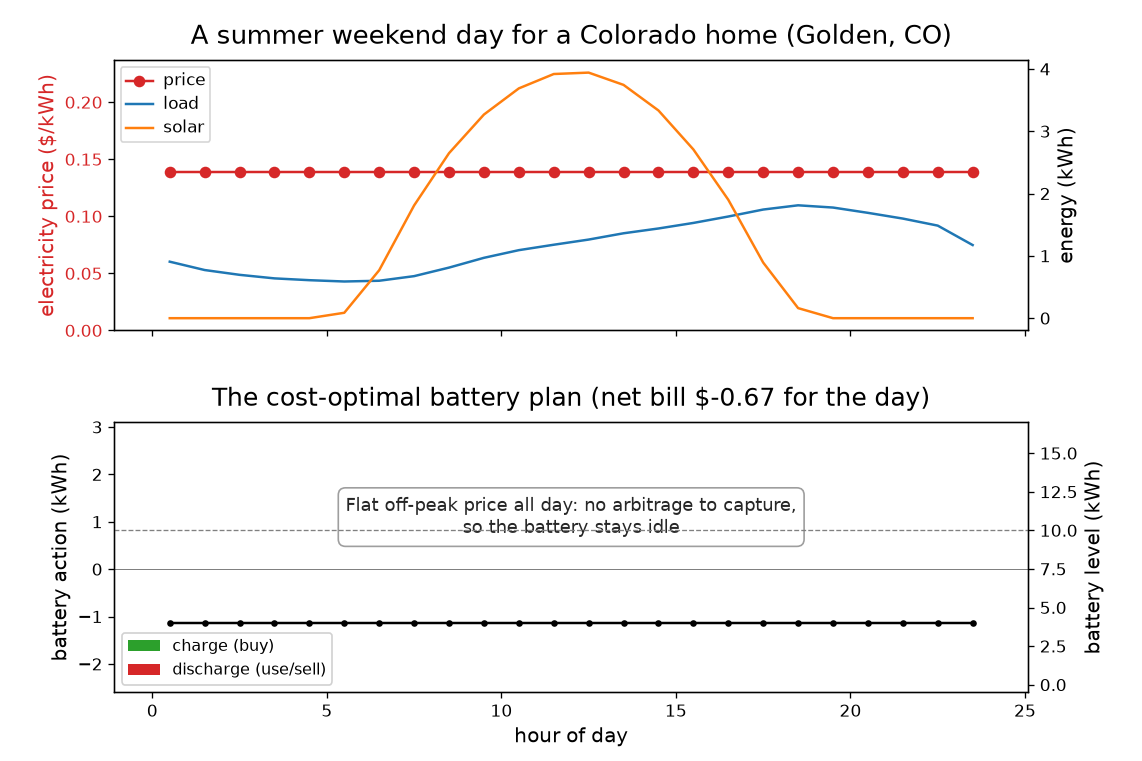
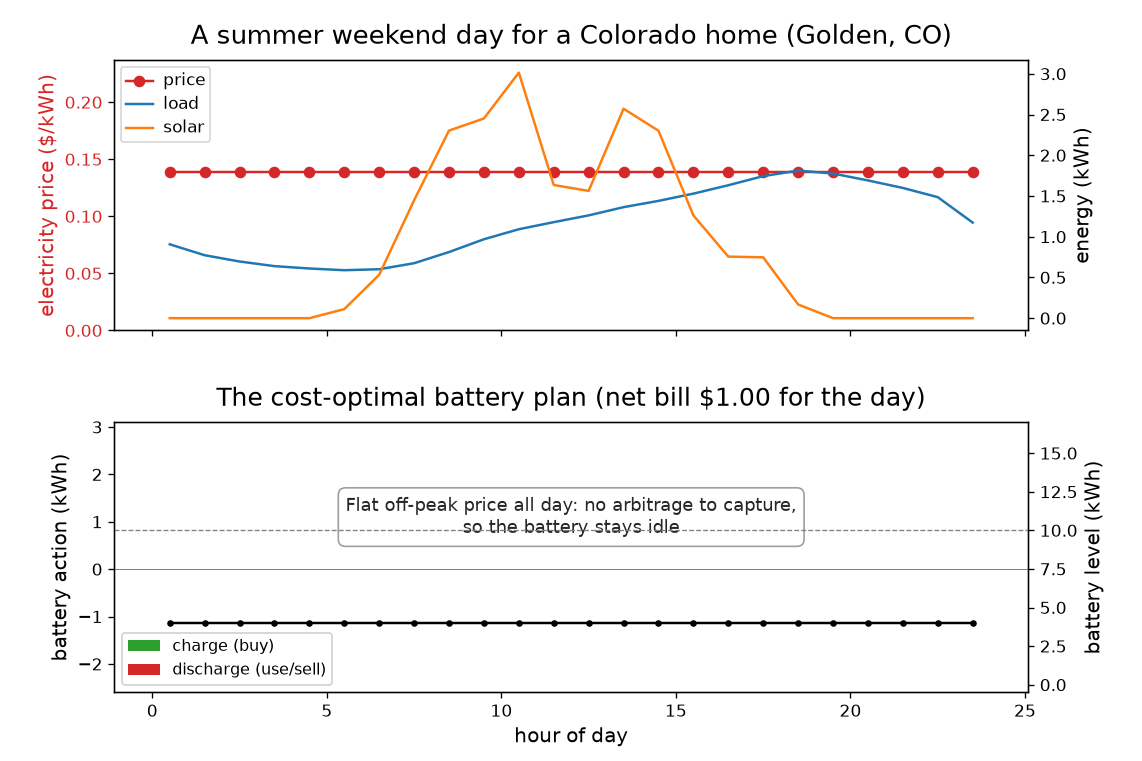
Skip US federal holidays when picking representative figure days
Jan 1 was the winter weekday pick, which is the single day where the
no-holiday-schedule limitation is most conspicuous: URDB carries no holiday
schedule and the ResStock weekday aggregate folds holidays in, so a holiday
bills as an ordinary weekday. That is a documented v1 limitation, but putting it
on the face of a published figure makes it look like a modelling claim.

Fixed generally rather than for that one date, via a rule-based (not
date-listed) is_federal_holiday in data.calendar. The general fix earns its
keep immediately: a naive 'first matching day' rule hits a holiday twice in the
same month, since the first January weekday is Jan 1 and the third Monday is MLK
Day. Juneteenth is included though it only became federal in 2021 -- the set is
used to exclude days, so over-inclusion is the safe direction.

Mid-month alone turned out to be insufficient: 'closest to the 15th' selected a
July day at the 3rd percentile of July generation (16.1 kWh against a 23.2
median), a heavily overcast day and a misleading thing to publish as 'a summer
day'. The pick is now the median-generation day of its mid-month window --
median, not maximum, since the goal is a typical day rather than a flattering
one. All four buckets now land between the 35th and 80th percentile of their
month, and the winter weekday resolves to day 17 (Thu 18 Jan).

diff --git a/scripts/make_real_schedule_figure.py b/scripts/make_real_schedule_figure.py
@@ -54,7 +54,13 @@ from matplotlib.patches import Patch  # noqa: E402
 sys.path.insert(0, str(Path(__file__).resolve().parent))
 from quantum_solar import dp_solve  # noqa: E402
 from quantum_solar.data import load_profile  # noqa: E402
-from quantum_solar.data.calendar import day_to_month, day_type, is_weekend  # noqa: E402
+from quantum_solar.data.calendar import (  # noqa: E402
+    day_of_month,
+    day_to_month,
+    day_type,
+    is_federal_holiday,
+    is_weekend,
+)
 from quantum_solar.data.nrel import build_instance, price_to_slots, to_slots  # noqa: E402
 from quantum_solar.plotting import plot_schedule  # noqa: E402
 
@@ -63,10 +69,11 @@ SNAPSHOT = Path(__file__).resolve().parent.parent / "docs" / "figures" / "annual
 DATA = WEB / "schedule_real_day.json"
 
 PEAK_START, PEAK_END = 17, 21  # 5-9pm on-peak window
+MID_LO, MID_HI = 10, 20        # "mid-month" window, by day-of-month
 
 # One representative day per seasonal bucket. Summer is Jun-Sep (the RE-TOU
-# tariff season); the month is a target and the day is the first one in it whose
-# weekday/weekend type matches, so every bucket is a real AMY-2018 calendar day.
+# tariff season); the month is a target and pick_day resolves it to a real
+# AMY-2018 calendar day of the right weekday/weekend type.
 BUCKETS = (
     ("summer_weekday", 6, "weekday", "A summer weekday"),
     ("summer_weekend", 6, "weekend", "A summer weekend day"),
@@ -75,12 +82,41 @@ BUCKETS = (
 )
 
 
+_GENERATION: np.ndarray | None = None  # set in main(); read by pick_day
+
+
 def pick_day(month: int, wanted: str) -> int:
-    """First AMY-2018 day in ``month`` of the requested weekday/weekend type."""
-    for day in range(365):
-        if day_to_month(day) == month and day_type(day) == wanted:
-            return day
-    raise ValueError(f"no {wanted} in month {month}")
+    """A representative AMY-2018 day: mid-month, right day type, not a holiday.
+
+    Two deliberate choices, both to keep the figure representative rather than
+    incidental:
+
+    * **Federal holidays are skipped.** URDB carries no holiday schedule and the
+      ResStock weekday aggregate folds holidays into weekdays, so a holiday is
+      billed here as an ordinary weekday. That is a documented v1 limitation, but
+      putting it on the face of a published figure makes it look like a modelling
+      claim. Skipping is general, not a patch for one date: the first January
+      weekday is Jan 1, and the third Monday is MLK Day, so a naive "first
+      matching day" rule hits a holiday twice in the same month.
+    * **Mid-month, and typical within it.** The first matching day of a month sits
+      at a season boundary where generation is least typical of the month it
+      labels. But "closest to the 15th" alone is not enough either: in this
+      snapshot it selects a July day at the **3rd percentile** of July generation
+      (16.1 kWh against a 23.2 kWh median) -- a heavily overcast day, which is a
+      misleading thing to publish as "a summer day". So the pick is the day whose
+      total generation is nearest the **median** of its mid-month window. Median,
+      not maximum: the goal is a typical day, not a flattering one.
+    """
+    window = [d for d in range(365)
+              if day_to_month(d) == month
+              and day_type(d) == wanted
+              and not is_federal_holiday(d)
+              and MID_LO <= day_of_month(d) <= MID_HI]
+    if not window:
+        raise ValueError(f"no non-holiday mid-month {wanted} in month {month}")
+    totals = {d: float(to_slots(_GENERATION, d, 24).sum()) for d in window}
+    target = float(np.median(list(totals.values())))
+    return min(window, key=lambda d: (abs(totals[d] - target), d))  # ties -> earlier
 
 
 def build_bucket(snap, day: int):
@@ -170,7 +206,9 @@ def render(problem, solution, headline, out_path):
 
 
 def main():
+    global _GENERATION
     snap = json.loads(SNAPSHOT.read_text())
+    _GENERATION = np.asarray(snap["generation"], dtype=float)
     record = {
         "_source": "Generated by scripts/make_real_schedule_figure.py from "
                    "docs/figures/annual_golden_co.json and the committed ResStock "

diff --git a/src/quantum_solar/data/calendar.py b/src/quantum_solar/data/calendar.py
@@ -37,6 +37,11 @@ def day_to_month(day: int) -> int:
     return _date(day).month - 1
 
 
+def day_of_month(day: int) -> int:
+    """0-based day-of-year (0..364) -> 1-based day of its month, AMY 2018."""
+    return _date(day).day
+
+
 def is_weekend(day: int) -> bool:
     """True if the 0-based day-of-year falls on Sat/Sun in AMY 2018.
 
@@ -54,3 +59,56 @@ def day_type(day: int) -> str:
     The load-profile key axis (with ``day_to_month``): ``load_profile(month, day_type)``.
     """
     return "weekend" if is_weekend(day) else "weekday"
+
+
+def _nth_weekday(month: int, weekday: int, n: int) -> datetime.date:
+    """``n``-th ``weekday`` (Mon=0) of ``month`` in AMY 2018; ``n=-1`` means the last."""
+    first = datetime.date(AMY_YEAR, month, 1)
+    if n == -1:
+        nxt = datetime.date(AMY_YEAR, month + 1, 1) if month < 12 else datetime.date(AMY_YEAR + 1, 1, 1)
+        last = nxt - datetime.timedelta(days=1)
+        return last - datetime.timedelta(days=(last.weekday() - weekday) % 7)
+    offset = (weekday - first.weekday()) % 7
+    return first + datetime.timedelta(days=offset + 7 * (n - 1))
+
+
+def _federal_holidays() -> frozenset[datetime.date]:
+    """US federal holidays in AMY 2018, plus their weekend-observed dates.
+
+    Rule-based rather than a date list so the set cannot silently rot, and
+    deliberately includes Juneteenth, which only became federal in 2021: this set
+    is used to *exclude* days from representative-day selection, so over-inclusion
+    is the safe direction.
+    """
+    fixed = [(1, 1), (6, 19), (7, 4), (11, 11), (12, 25)]
+    days = {datetime.date(AMY_YEAR, m, d) for m, d in fixed}
+    days |= {
+        _nth_weekday(1, 0, 3),    # MLK Day: 3rd Monday of January
+        _nth_weekday(2, 0, 3),    # Washington's Birthday: 3rd Monday of February
+        _nth_weekday(5, 0, -1),   # Memorial Day: last Monday of May
+        _nth_weekday(9, 0, 1),    # Labor Day: 1st Monday of September
+        _nth_weekday(10, 0, 2),   # Columbus Day: 2nd Monday of October
+        _nth_weekday(11, 3, 4),   # Thanksgiving: 4th Thursday of November
+    }
+    observed = set()
+    for d in days:  # Sat -> observed Friday, Sun -> observed Monday
+        if d.weekday() == 5:
+            observed.add(d - datetime.timedelta(days=1))
+        elif d.weekday() == 6:
+            observed.add(d + datetime.timedelta(days=1))
+    return frozenset(days | observed)
+
+
+_FEDERAL_HOLIDAYS = _federal_holidays()
+
+
+def is_federal_holiday(day: int) -> bool:
+    """True if the 0-based day-of-year is a US federal holiday (or observance) in AMY 2018.
+
+    This does **not** change how a day is billed: :func:`is_weekend` still treats
+    holidays as ordinary weekdays, because URDB carries no holiday schedule and
+    the ResStock weekday aggregate folds holidays in. That limitation is exactly
+    why this helper exists — it lets *representative-day selection* avoid the days
+    where the limitation is most conspicuous, without pretending to model them.
+    """
+    return _date(day) in _FEDERAL_HOLIDAYS

diff --git a/tests/test_calendar.py b/tests/test_calendar.py
@@ -43,3 +43,49 @@ def test_2018_has_104_weekend_days():
     # 2018 starts and ends on Monday: 52 Saturdays + 52 Sundays = 104 weekend days.
     weekend_days = sum(cal.is_weekend(d) for d in range(365))
     assert weekend_days == 104
+
+
+def test_federal_holidays_are_rule_derived_not_hardcoded():
+    """The 2018 federal set, including weekend-observed dates.
+
+    Representative-day selection excludes these, so a wrong set silently puts an
+    atypical day on a published figure.
+    """
+    import datetime
+
+    from quantum_solar.data.calendar import AMY_YEAR, is_federal_holiday
+
+    def doy(month, day):
+        return (datetime.date(AMY_YEAR, month, day) - datetime.date(AMY_YEAR, 1, 1)).days
+
+    expected = {
+        (1, 1),    # New Year's Day
+        (1, 15),   # MLK Day, 3rd Monday
+        (2, 19),   # Washington's Birthday, 3rd Monday
+        (5, 28),   # Memorial Day, last Monday
+        (6, 19),   # Juneteenth (federal from 2021; included deliberately)
+        (7, 4),    # Independence Day
+        (9, 3),    # Labor Day, 1st Monday
+        (10, 8),   # Columbus Day, 2nd Monday
+        (11, 11),  # Veterans Day (a Sunday in 2018)
+        (11, 12),  # ...and its observed Monday
+        (11, 22),  # Thanksgiving, 4th Thursday
+        (12, 25),  # Christmas
+    }
+    got = set()
+    for day in range(365):
+        if is_federal_holiday(day):
+            date = datetime.date(AMY_YEAR, 1, 1) + datetime.timedelta(days=day)
+            got.add((date.month, date.day))
+    assert got == expected
+
+
+def test_day_of_month_and_holidays_agree_with_day_type():
+    """Holidays are still classified as weekdays: they are billed as such."""
+    from quantum_solar.data.calendar import day_of_month, day_type, is_federal_holiday
+
+    assert day_of_month(0) == 1
+    assert day_of_month(364) == 31
+    assert is_federal_holiday(0) and day_type(0) == "weekday"   # Mon 1 Jan
+    assert is_federal_holiday(14) and day_type(14) == "weekday"  # MLK Day
+    assert not is_federal_holiday(17)                            # Thu 18 Jan
